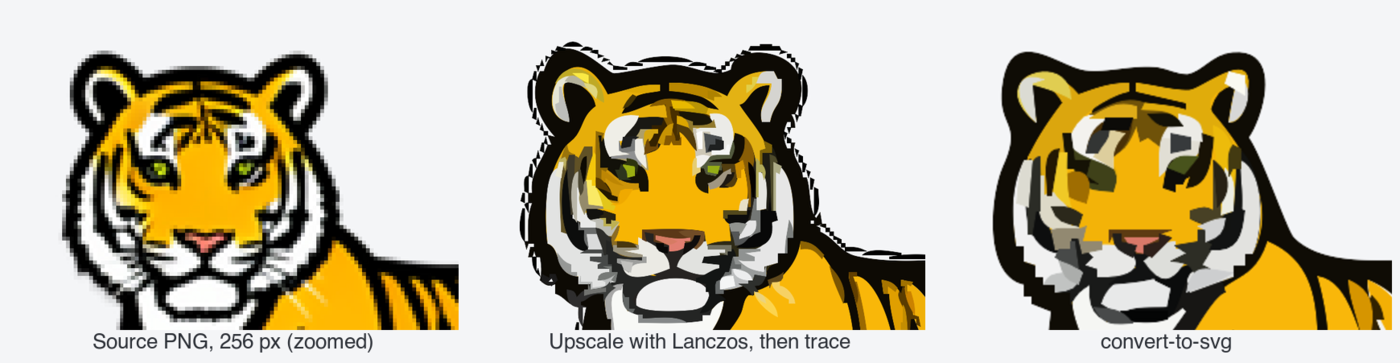
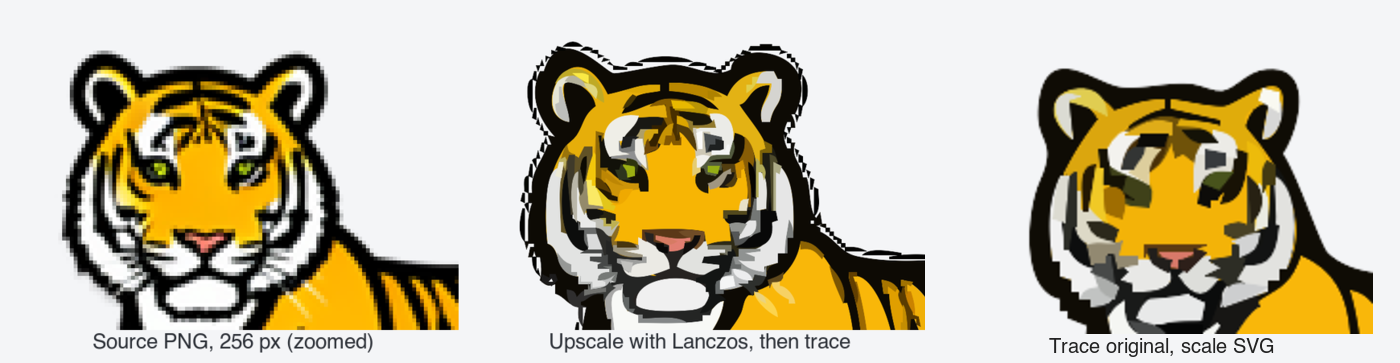
Replace tiger README comparison with native-traced SVG

Changed region(s): [[0.7064, 0.1212, 1.0, 0.9697]]

diff --git a/README.md b/README.md
@@ -26,8 +26,10 @@
 - **Flood-filling the background of an image that is *already transparent*** only adds more fringe.
 
 <p align="center">
-  <img src="assets/comparison.png" alt="Source PNG, Lanczos upscale then trace, and convert-to-svg" width="900">
+  <img src="assets/comparison.png" alt="Tiger source at 256 pixels, raster upscale then trace, and native trace followed by SVG scaling" width="900">
 </p>
+
+The right panel uses the [256×256 tiger source](assets/tiger-source-256.png): `vtracer` traces its original pixels, then the [512×512 SVG](assets/tiger-native-512.svg) scales those same paths by 2. The middle panel shows the earlier raster-upscale approach for comparison. The new SVG contains the same 116 paths as its 256×256 trace; only its canvas and parent transform differ.
 
 `convert-to-svg` avoids both:
 
